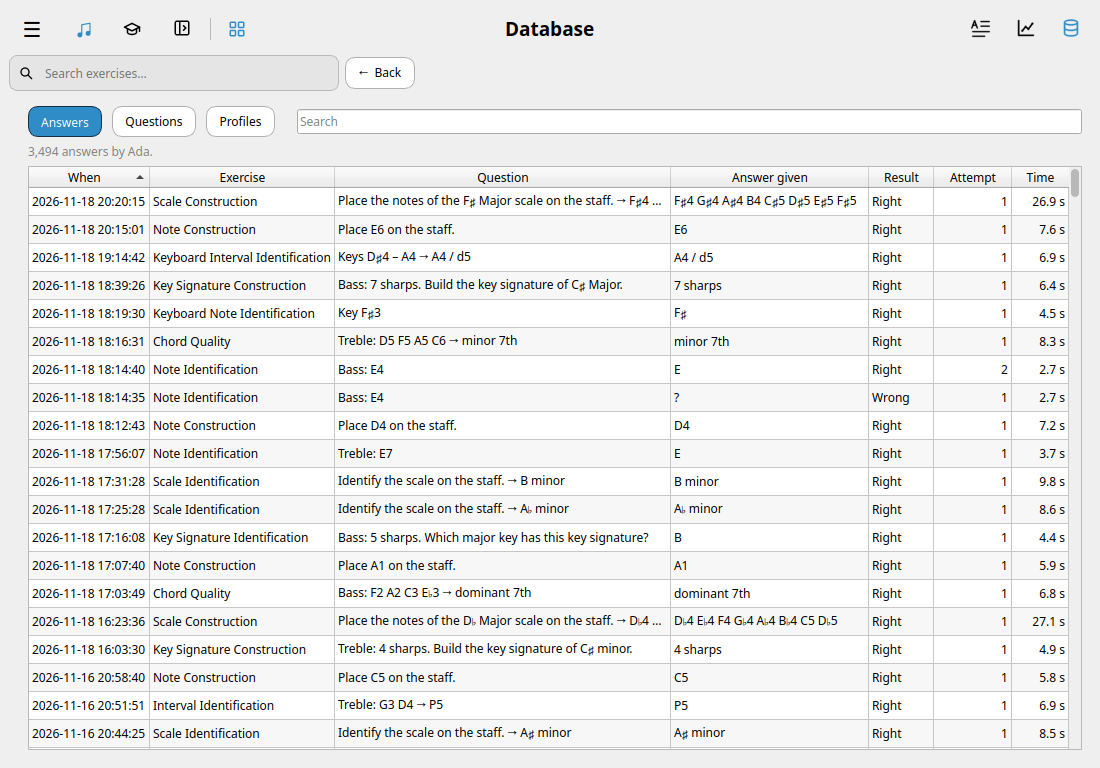
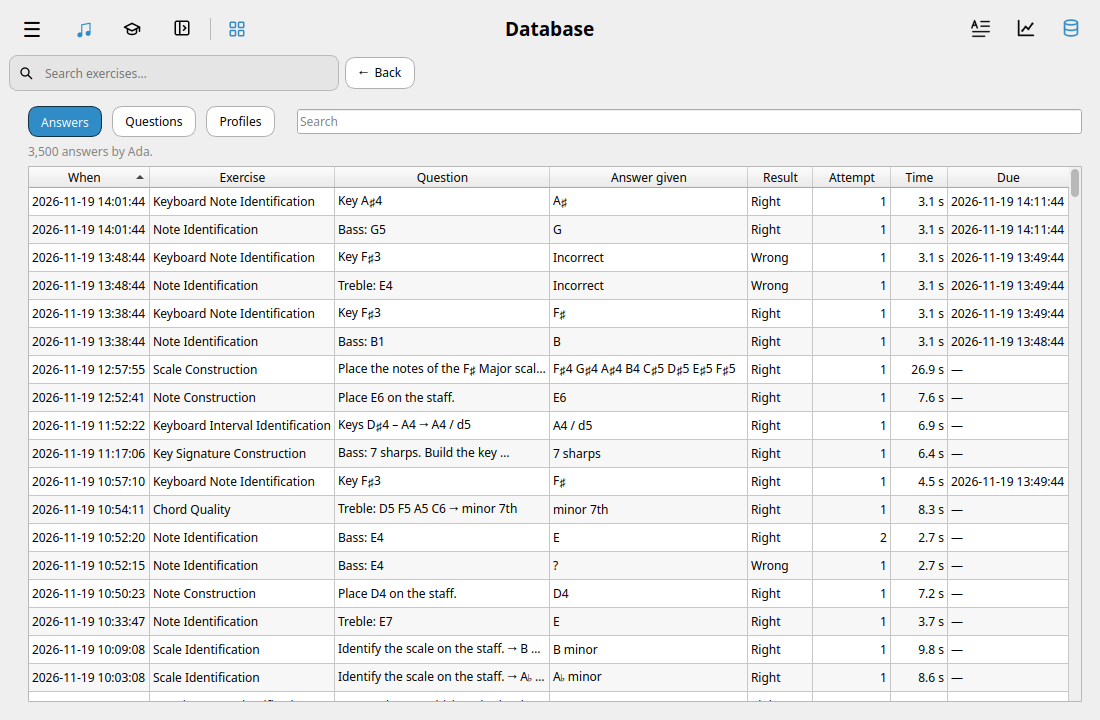
Illustrate filtering, reviews, and statistics in both documentation themes

diff --git a/scripts/screenshots.py b/scripts/screenshots.py
@@ -41,17 +41,21 @@ from PySide6.QtWidgets import (
 
 import alto.ui.exercise_view as ev
 from alto import settings
+from alto.audio import sounds
 from alto.exercises import REGISTRY
 from alto.exercises.base import Question
+from alto.exercises.library import ClefBasics, KeyboardNotes, NoteNames
 from alto.learning import (
     Database,
     Learner,
 )
+from alto.learning.calendar import UNLIMITED
 from alto.ui.app_settings import AppSettingsDialog
 from alto.ui.database_page import (
     ROW_ROLE,
     DatabasePage,
 )
+from alto.ui.glossary import GlossaryPage
 from alto.ui.main_window import MainWindow
 from alto.ui.profile_dialog import ProfileDialog
 from alto.ui.question_preview import QuestionPreview
@@ -80,6 +84,13 @@ SHOTS = (
     "arpeggios",
     "key-signatures",
     "circle-of-fifths",
+    "filtered-practice",
+    "filtered-exercise",
+    "keyboard-review",
+    "self-grading",
+    "waiting-for-review",
+    "practice-settings",
+    "database-questions",
     "stats",
     "stats-heatmap",
     "database",
@@ -335,13 +346,29 @@ def capture(
         save(window, name=name)
     window.show_home()
     wait()
+    # A few recent FSRS answers give the calendar controls actual new, missed, and due cards.
+    learner.set_mode("FSRS")
+    for ex in (NoteNames(), KeyboardNotes()):
+        for minutes_ago, correct in ((25, True), (15, False), (2, True)):
+            question = ex.generate(rng)
+            learner.record(
+                ex,
+                question=question,
+                answer=question.answer if correct else "Incorrect",
+                correct=correct,
+                attempt_no=1,
+                seconds=3.1,
+                now=now - minutes_ago * 60,
+            )
+
     window.open_stats()
     wait(400)
+    stats_page = window._overlay
+    assert isinstance(stats_page, StatsPage)
+    stats_page.granularity.setCurrentText("Week")
     save(window, name="stats", width=1500)
     if "stats-heatmap" in names:  # scroll down to the calendar of reviews and show it with the table under it
         # noinspection PyProtectedMember
-        stats_page = window._overlay
-        assert isinstance(stats_page, StatsPage)
         scroller = stats_page.findChild(QScrollArea)
         assert scroller is not None
         scroller.verticalScrollBar().setValue(stats_page.heatmap.y() - 16)
@@ -349,10 +376,14 @@ def capture(
         save(window, name="stats-heatmap", width=1500)
     window.open_database()
     wait(400)
-    save(window, name="database")
     # noinspection PyProtectedMember
     page = window._overlay
     assert isinstance(page, DatabasePage)
+    save(window, name="database")
+    if "database-questions" in names:
+        page.tabs["questions"].click()
+        page.view.sortByColumn(page.model.headers.index("Last seen"), Qt.SortOrder.DescendingOrder)
+        save(window, name="database-questions")
     page.tabs["answers"].click()
     wait(200)
     row = next(page.proxy.index(r, 0) for r in range(page.proxy.rowCount()) if "Chord" in page.proxy.index(r, 1).data())
@@ -370,8 +401,44 @@ def capture(
     preview.close()
     window.show_home()
 
+    if {"filtered-practice", "filtered-exercise", "keyboard-review", "self-grading", "waiting-for-review"}.intersection(names):
+        window.home.restore_tile_filters({"exercises": frozenset({NoteNames.name, KeyboardNotes.name})}, expanded=True)
+        window.shuffle_button.setChecked(True)
+        window.home.refresh_counts()
+        wait(1200)
+        save(window, name="filtered-practice")
+        window.home.category_filter.click()
+        window.open_exercise(NoteNames)
+        wait(500)
+        save(window, name="filtered-exercise")
+        window.shuffle_button.setChecked(False)
+        window.home.restore_tile_filters({}, expanded=False)
+
+        window.open_exercise(KeyboardNotes)
+        save(window, name="keyboard-review")
+
+        sounds.enabled = False  # capture answer feedback without opening an audio device
+        learner.set_self_grading(True)
+        learner.calendar.set_limits(learner.profile.id, exercise="NoteNames", new_cards=None, reviews=0)
+        window.open_exercise(NoteNames)
+        view = window._exercise_page
+        assert view is not None and view.question is not None
+        view.submit(view.question.answer, button=None)
+        save(window, name="self-grading")
+        if "waiting-for-review" in names:
+            learner.set_self_grading(False)
+            learner.calendar.set_limits(learner.profile.id, exercise="ClefBasics", new_cards=1, reviews=None)
+            window.open_exercise(ClefBasics)
+            view = window._exercise_page
+            assert view is not None
+            view.submit("Incorrect", button=None)
+            wait(800)
+            assert view.question is None
+            save(window, name="waiting-for-review")
+        window.show_home()
+
     # The app-wide settings: the Notation style section, and the Sound page showing the viola.
-    dialog = AppSettingsDialog(window)
+    dialog = AppSettingsDialog(window, learner=learner)
     dialog.resize(1000, 640)
     dialog.show()
     dialog.categories.setCurrentRow(2)
@@ -381,6 +448,11 @@ def capture(
     dialog.instruments.select("viola_bowed")
     wait(200)
     save(dialog, name="settings-sound", width=1000)
+    if "practice-settings" in names:
+        learner.set_self_grading(True)
+        learner.calendar.set_limits(learner.profile.id, new_cards=10, reviews=UNLIMITED)
+        dialog.categories.setCurrentItem(dialog.categories.findItems("Practice", Qt.MatchFlag.MatchExactly)[0])
+        save(dialog, name="practice-settings")
     dialog.close()
 
     if {"lesson-tiles", "lesson-workspace", "glossary"}.intersection(names):
@@ -391,7 +463,13 @@ def capture(
         window.open_lessons("pitches-and-notes")
         save(window, name="lesson-workspace")
     if "glossary" in names:
+        window.show_home()
         window.open_glossary()
+        glossary = window._overlay
+        assert isinstance(glossary, GlossaryPage)
+        glossary.search.setText("minor")
+        glossary.terms.setCurrentItem(glossary.terms.findItems("harmonic minor scale", Qt.MatchFlag.MatchExactly)[0])
+        wait(500)
         save(window, name="glossary")
     if "profile-create" in names or "profile-picker" in names:
         profiles = Database()

diff --git a/tests/test_guide_docs.py b/tests/test_guide_docs.py
@@ -87,7 +87,7 @@ def test_every_link_in_a_guide_page_goes_to_a_page_that_exists(page: Path) -> No
 @pytest.mark.parametrize("page", [GUIDE / "index.md", *chapters()], ids=lambda p: p.name)
 def test_a_guide_page_has_no_stray_liquid_for_jekyll_to_trip_over(page: Path) -> None:
     """
-    Check that the only template code in a guide page is a `relative_url` link, since Jekyll runs Liquid over every page.
+    Allow relative links and screenshot includes in the guide, and flag other Liquid delimiters.
 
     Parameters
     ----------
@@ -95,6 +95,12 @@ def test_a_guide_page_has_no_stray_liquid_for_jekyll_to_trip_over(page: Path) ->
         The guide page, supplied by the parametrisation.
     """
     text = LINK.sub("", page.read_text(encoding="utf-8"))
+    text = re.sub(
+        r'^{% include shot\.html src="[\w-]+\.png" alt="[^"{}\n]+"(?: caption="[^"{}\n]+")? %}$',
+        "",
+        text,
+        flags=re.MULTILINE,
+    )
     assert "{{" not in text and "{%" not in text, f"{page.name} has braces that Jekyll would read as template code"
 
 

diff --git a/tests/test_docs.py b/tests/test_docs.py
@@ -65,7 +65,8 @@ def shown() -> set[str]:
         The pictures the docs pages include.
     """
     found = set()
-    for page in (ROOT / "docs").glob("*.md"):
+    docs = ROOT / "docs"
+    for page in (*docs.glob("*.md"), *(docs / "guide").glob("*.md")):
         found |= set(re.findall(r'shot\.html src="([^"]+)\.png"', page.read_text()))
     home = (ROOT / "docs" / "index.md").read_text()
     front_matter = home.split("---", 2)[1]

diff --git a/docs/developer-guide.md b/docs/developer-guide.md
@@ -53,15 +53,15 @@ Opening **Pitches and Notes** puts the lesson outline on the left. On the right,
 
 ### Glossary
 
-The glossary button opens a searchable term list. Selecting **accidental** updates the definition, the example on the staff, and the links to related practice. The example uses the same staff class as Note Identification.
+The glossary button opens a searchable term list. Selecting **harmonic minor scale** updates the definition, the example on the staff, and the links to related practice. The example uses the same staff class as Note Identification.
 
-{% include component-shot.html screen="glossary" width=1100 height=768 alt="The accidental glossary entry with a term list, a staff example, and related exercise tiles." %}
+{% include component-shot.html screen="glossary" width=1100 height=720 alt="The harmonic minor scale glossary entry with a term list, a staff example, and related exercise tiles." %}
 
 ### Statistics
 
-The chart button opens `StatsPage` for the active learner. Changing the exercise or date filter updates both the totals and the graphs. Each chart paints its own data. For example, the stacked bars show question counts, while the line beside them shows daily accuracy.
+The chart button opens `StatsPage` for the active learner. Changing the exercise or date filter updates both the totals and the graphs. Each chart paints its own data. For example, the stacked bars group questions by the period selected under **Granularity**, while the line beside them shows daily accuracy.
 
-{% include component-shot.html screen="stats" width=1100 height=768 alt="Statistics with filters, six summary tiles, and charts for question volume, accuracy, and speed." %}
+{% include component-shot.html screen="stats" width=1100 height=720 alt="Statistics with filters, six summary tiles, and charts for question volume, accuracy, and speed." %}
 
 ### Database and answer details
 
@@ -69,7 +69,7 @@ The database button opens the history browser. `DatabasePage` handles the table 
 
 The [Database chapter]({{ '/developer-guide/database/' | relative_url }}) diagrams the relationships between profiles, submitted answers, and question summaries, and documents every stored column.
 
-{% include component-shot.html screen="database" width=1100 height=768 alt="The database browser with Answers selected, a search field, and rows of recorded attempts." %}
+{% include component-shot.html screen="database" width=1100 height=720 alt="The database browser with Answers selected, a search field, and rows of recorded attempts." %}
 
 Double-clicking an answer opens a separate `QuestionPreview` dialog. It recreates the question from the saved record. This chord example has a `StaffWidget` above the answer and timing details.
 

diff --git a/docs/getting-started.md b/docs/getting-started.md
@@ -114,6 +114,8 @@ delete those too; use **Export backup…** first if you might want them back.
 
 The first time you open Alto it asks you to create a profile.
 
+{% include shot.html src="home.png" alt="The home screen after creating a profile" %}
+
 Type a name and press **Create profile**. There is no password, and the name is only a label that keeps your history
 separate from anyone else who uses the same computer. Next time Alto opens straight into the profile you used last.
 
@@ -146,12 +148,20 @@ the switch happens. With **Wait**, click **Next** after reviewing your answer. Y
 a question. Shuffle uses the updated list for the next question and returns to the tiles if the list is empty.
 Click the highlighted shuffle icon again to turn it off.
 
+{% include shot.html src="filtered-practice.png" alt="Exercise grid with two checked note exercises in the right sidebar and the blue shuffle icon above it" caption="Only the checked exercises appear in the grid. The New, Learn, and Due totals at the left count cards from these two exercises." %}
+
 During an exercise or lesson, **Exercises / Lessons** switches the list while keeping your activity on screen. Selecting
 an item starts or resumes it. The top-left pane button hides and shows the list without leaving your activity.
 **Statistics** and **Browse database** are at the top right. The sliders button opens the exercise's own settings, and **?**
 explains it.
 
-{% include shot.html src="note-identification.png" alt="Note Identification showing a note on a bass clef staff with buttons C to B" caption="An exercise screen. The row of buttons below the staff holds the possible answers." %}
+{% include shot.html src="filtered-exercise.png" alt="Note Identification with two exercises in the navigation pane, Shuffle enabled, and the next interval beside the staff" caption="The navigation pane lists the same two exercises as the filtered grid. The blue shuffle button stays available while you practice." %}
+
+## Glossary
+
+Open **Glossary** in the top toolbar to look up a term. Search for *minor*, for example, and select **harmonic minor scale**. You can hear the scale, try another example, or open a related exercise from the same page.
+
+{% include shot.html src="glossary.png" alt="Glossary search results for minor with harmonic minor scale selected and its notes labeled on a staff" caption="In A harmonic minor, listen for the three half steps from F to G♯ and the half step from G♯ to A." %}
 
 ## Running the tests
 

diff --git a/docs/practice.md b/docs/practice.md
@@ -21,6 +21,8 @@ Consider a single Note Identification question, F♯ in treble clef. A scheduler
 
 In **Settings → Practice**, select **Grade correct answers with Hard, Good, or Easy**. After a correct answer, **Hard** and **Good** keep a new card in its short learning steps. **Easy** skips those steps. SM-2 starts its first Easy review at 4 days. With Alto’s default FSRS settings, the starting estimate is about 8.3 days.
 
+{% include shot.html src="self-grading.png" alt="A correct Note Identification answer with the review intervals above Hard, Good, and Easy" caption="Choose a grade to schedule the card at the interval above that button." %}
+
 | First correct answer | SM-2 | FSRS |
 | --- | --- | --- |
 | Hard | 5 min 30 s | 5 min 30 s |
@@ -186,9 +188,15 @@ For SM-2 and FSRS, exercise tiles show **new cards in blue**, **missed cards awa
 
 On the exercise screen, the counts appear at the top, immediately to the left of the score and streak, in **blue / red / green** order: new cards, outstanding incorrect cards, and due reviews. The underlined number identifies the current card’s queue. A retry that is due appears in both the red and green counts, with red underlined while you answer it.
 
+{% include shot.html src="keyboard-review.png" alt="Keyboard Note Identification with three colored counts next to the streak and Next interval beneath the keyboard" caption="With automatic grading, Next interval shows when this card will return if you answer correctly." %}
+
 After a miss, Alto sets the card aside and offers other eligible questions. If the missed card is the only review left within your daily limit, the exercise shows its return time and resumes automatically when it is due.
 
+{% include shot.html src="waiting-for-review.png" alt="An exercise waiting for a missed card, with its return time and the red outstanding-card count" caption="You can leave the exercise open. Practice resumes when the missed card is due." %}
+
 The two algorithms share the day’s allowances and keep separate review dates. Opening a new card uses one introduction slot. If you leave before answering, you can return to that card without using another slot. The allowances reset at local midnight, and overdue reviews remain due.
+
+You can see the next review date for a specific card in the [database browser]({{ '/statistics/' | relative_url }}#browsing-the-database).
 
 ## Switching schedulers
 

diff --git a/docs/statistics.md b/docs/statistics.md
@@ -9,12 +9,12 @@ permalink: /statistics/
 Open the statistics from the chart button next to the menu button, or from the menu. They always show the active
 profile's own answers. Use **← Back** or <kbd>Esc</kbd> to return to the page you came from.
 
-{% include shot.html src="stats.png" alt="The statistics page with summary tiles and four charts" caption="Statistics for a demo profile." %}
-
 ### Filters
 
 - **Exercise:** all exercises, or any one of them.
 - **Timeframe:** today, the last 7, 30 or 90 days, the last year, or all time.
+
+{% include shot.html src="stats.png" alt="Statistics for the last 30 days with Week selected in the upper-right corner of the Questions answered chart" caption="Each bar counts a week of questions. The neighboring accuracy chart still shows one point per day." %}
 
 ### What you see
 
@@ -58,7 +58,7 @@ A question counts as **right** only if your first answer was right. That is the 
 
 The database button next to the statistics button opens a read-only view of what is stored. It never changes anything.
 
-{% include shot.html src="database.png" alt="The database browser listing answers in a table" %}
+{% include shot.html src="database.png" alt="The Answers table with the next review date in the Due column at the right" %}
 
 Three tables are available:
 
@@ -67,6 +67,8 @@ Three tables are available:
 - **Profiles:** everyone who has a profile, with how many answers and questions each has.
 
 In both **Answers** and **Questions**, **Due** shows the next review in local time for the selected SM-2 or FSRS schedule. All answers to the same question show its current due date. A dash means the question has no due date under the current scheduler.
+
+{% include shot.html src="database-questions.png" alt="The Questions table sorted by Last seen with Due dates beside the most recently practiced questions" caption="Last seen records when you practiced the question. Due shows when the scheduler wants to show it again." %}
 
 Click a column heading to sort, and use the search box to filter every column at once. Answers and questions are
 limited to the newest 10,000 rows each; the line above the table says when that applies.

diff --git a/docs/guide/spaced-repetition.md b/docs/guide/spaced-repetition.md
@@ -30,6 +30,8 @@ Due questions come first. By default, Alto grades the first submission automatic
 With automatic grading, **Next interval** shows how long after a correct first answer the card will be due. The value appears at the lower right of the music,
 or on one line beneath the keyboard. A new SM-2 card shows **1 day**, and a new FSRS card shows **10 min**.
 
+{% include shot.html src="keyboard-review.png" alt="A calendar review showing the next interval along the lower-right edge of the piano keyboard" %}
+
 To choose your own interval, enable **Grade correct answers with Hard, Good, or Easy** in **Settings → Practice**. After a correct answer, the interval appears above each grade button. Choose how difficult it was to recall the answer to schedule the review and move on. Response time ends when you answer the exercise. A wrong answer automatically earns **Again** and moves you to the next available card. Self-grading disables the exercise’s **Next Question** setting. Both algorithms use Anki’s default learning steps. On a new card, Hard repeats in 5 min 30 s, Good advances to 10 min, and Easy skips to a day-based review. SM-2 starts Easy around four days. FSRS calculates it from memory stability at 90% desired retention. Alto applies the displayed delay from the time you choose a grade and uses its own daily limits. [Anki deck options](https://docs.ankiweb.net/deck-options.html)
 
 For the range above each grade button and an example of how Alto spreads new cards across review days, see [Self-grading a new card]({{ '/practice/' | relative_url }}#self-grading-a-new-card).

diff --git a/docs/settings.md b/docs/settings.md
@@ -142,6 +142,12 @@ updates…** in the menu looks for the newest release. On, it looks for the newe
 each change as soon as it is merged, before it has been released. That may be less stable. It applies to a copy installed with
 the install script; a packaged copy always follows releases. See [Getting started]({{ '/getting-started/' | relative_url }}).
 
+### Practice
+
+Select a scheduler for the current profile. With **SM-2** or **FSRS**, you can set daily limits and choose whether to grade correct answers yourself.
+
+{% include shot.html src="practice-settings.png" alt="Practice settings with FSRS selected, self-grading enabled, ten new cards per day, and unlimited reviews" caption="This profile can start ten new cards per exercise each day and review every card that comes due." %}
+
 ## Exercise settings
 
 Note Identification, Keyboard Note Identification and Note Construction have a sliders button at the top right of the
